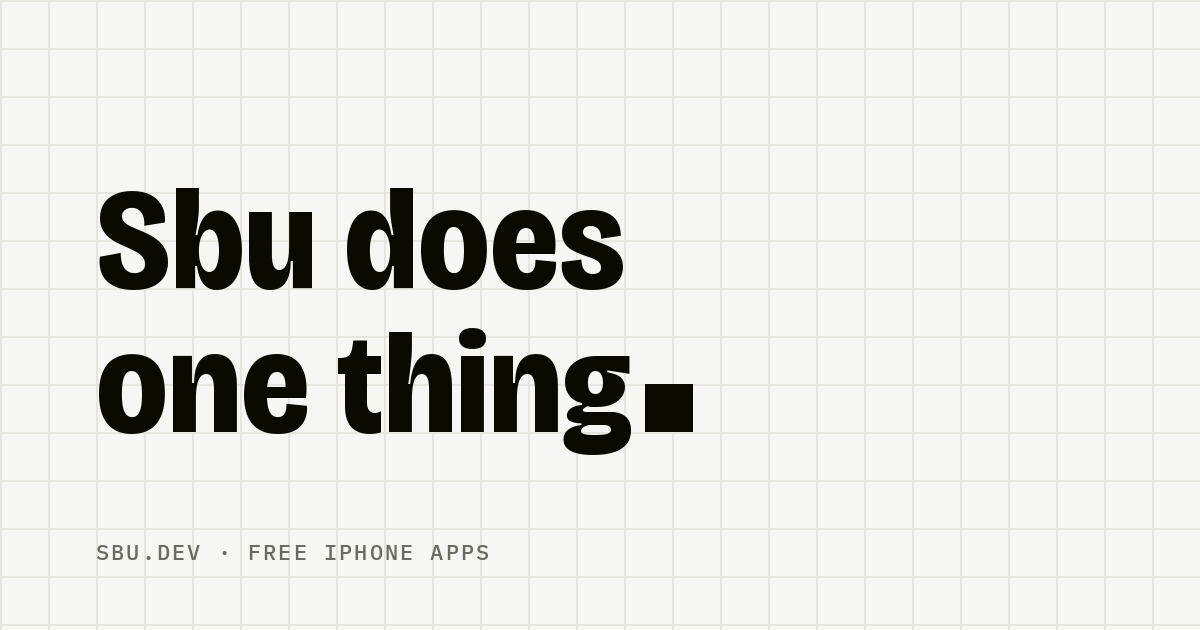
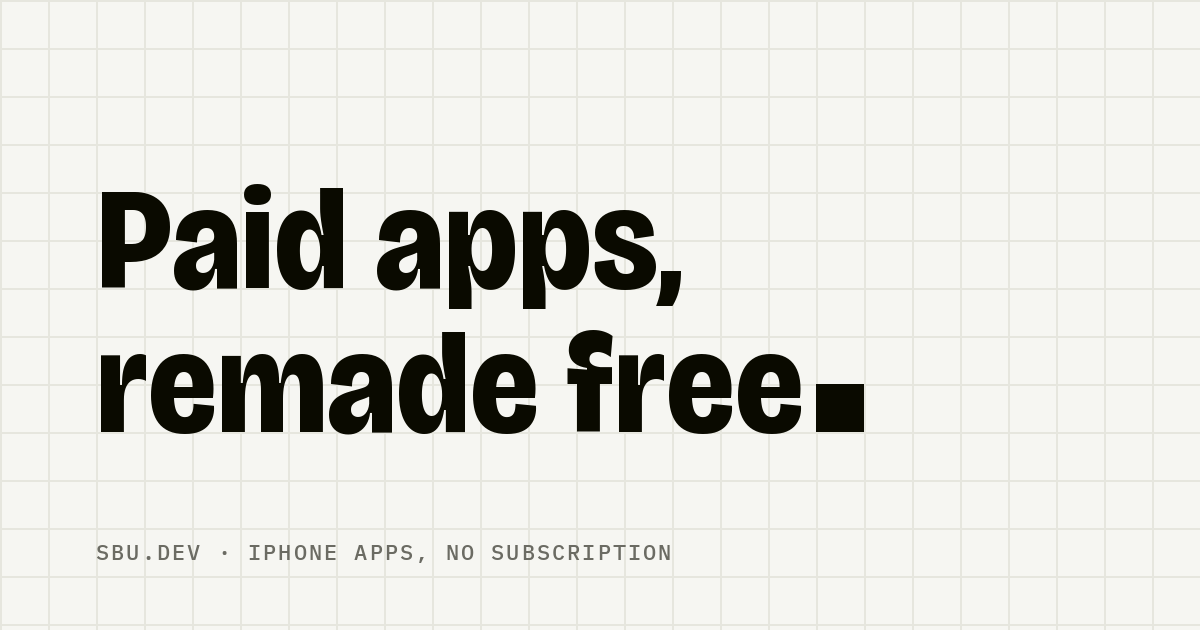
site: say what sbu.dev does on first look
The home opened on "Sbu fa una cosa sola", which tells a newcomer nothing.
It now opens on "App per iPhone a pagamento, rifatte gratis", one button to
the apps and the three branches (App, Giochi, Software) in one line each.
Each app tile names the paid app it replaces and its cost; "Il numero" is
"Quanto risparmi". Link previews and the site description say the same.

Changed region(s): [[0.0617, 0.2714, 0.74, 0.7238], [0.2467, 0.8444, 0.555, 0.9048], [0.0617, 0.3016, 0.0925, 0.3317]]

diff --git a/Site/src/i18n.ts b/Site/src/i18n.ts
@@ -9,7 +9,7 @@ export function localePath(locale: Locale, path: string): string {
 
 export const ui = {
   it: {
-    siteDescription: 'App gratuite per iPhone che fanno una cosa sola. Nessun abbonamento, nessun account, nessuna pubblicità.',
+    siteDescription: 'App per iPhone a pagamento, rifatte da zero e gratis. Nessun abbonamento, nessun account, nessuna pubblicità.',
     nav: { apps: 'App', games: 'Giochi', software: 'Software', principles: 'Principi', support: 'Supporto', blog: 'Blog', privacy: 'Privacy', subscriptionCost: 'Quanto spendi in abbonamenti', qrCode: 'Crea un codice QR', alternatives: 'Alternative gratis', press: 'Stampa' },
     otherLocale: { label: 'English', lang: 'en' },
     skip: 'Vai al contenuto',
@@ -52,7 +52,7 @@ export const ui = {
     priceSource: (date: string) => `Prezzo una tantum sull’App Store italiano, verificato il ${date}.`,
   },
   en: {
-    siteDescription: 'Free iPhone apps that each do one thing. No subscription, no account, no ads.',
+    siteDescription: 'Paid iPhone apps, remade from scratch and free. No subscription, no account, no ads.',
     nav: { apps: 'Apps', games: 'Games', software: 'Software', principles: 'Principles', support: 'Support', blog: 'Blog', privacy: 'Privacy', subscriptionCost: 'Subscription cost', qrCode: 'QR code maker', alternatives: 'Free alternatives', press: 'Press' },
     otherLocale: { label: 'Italiano', lang: 'it' },
     skip: 'Skip to content',

diff --git a/Tools/make_og.py b/Tools/make_og.py
@@ -5,7 +5,7 @@ Paper with the notebook grid, drawn at 2x (a preview is shown at about half its 
 2 x grid-cell). One per app with an engraving in Design/icons/source: a Plex Mono cartiglio
 (SBU / NN / SLUG), the app name in Bricolage Grotesque variable at 800 and width 87, closed by the
 full stop in its accent (exactly one cell), the engraving in `ink` beside it. One per locale for the
-home: "Sbu fa una cosa sola" closed by the full stop in `brand`. Light only: previews are shown on
+home: "App a pagamento, rifatte gratis" closed by the full stop in `brand`. Light only: previews are shown on
 someone else's page, which we don't theme.
 
 Usage: python3 Tools/make_og.py      -> Site/public/og/<name>.png, home-it.png, home-en.png
@@ -27,8 +27,8 @@ OUT = ROOT / "Site" / "public" / "og"
 W, H = 1200, 630
 SCALE = 2  # preview pixels per CSS pixel
 HOME = {
-    "it": (["Sbu fa una", "cosa sola"], "sbu.dev · app gratuite per iPhone"),
-    "en": (["Sbu does", "one thing"], "sbu.dev · free iPhone apps"),
+    "it": (["App a pagamento,", "rifatte gratis"], "sbu.dev · app per iPhone, senza abbonamento"),
+    "en": (["Paid apps,", "remade free"], "sbu.dev · iPhone apps, no subscription"),
 }
 
 
